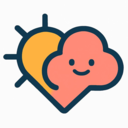
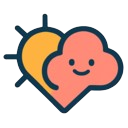
FIX - icono principal

diff --git a/popup.html b/popup.html
@@ -12,7 +12,7 @@
 <div class="container">
     <header class="header">
         <div class="logo">
-            <span class="logo-icon">🎭</span>
+            <img src="icons/icon128.png" alt="Logo MoodDrop" class="logo-icon-img" />
             <h1 class="title">MoodDrop</h1>
         </div>
         <p class="subtitle">¿Cómo te sentís ahora?</p>
@@ -79,9 +79,9 @@
                 <span class="emotion__emoji">🤒</span>
                 <span class="emotion__label">Enfermo</span>
             </button>
-            <button class="emotion emotion--physical" data-emotion="Descompuesto">
+            <button class="emotion emotion--physical" data-emotion="Resacozo">
                 <span class="emotion__emoji">🤢</span>
-                <span class="emotion__label">Descompuesto</span>
+                <span class="emotion__label">Resacozo</span>
             </button>
             <button class="emotion emotion--playful" data-emotion="Picaro">
                 <span class="emotion__emoji">😏</span>

diff --git a/dashboard.js b/dashboard.js
@@ -180,7 +180,7 @@ function emotionToEmoji(emotion) {
         "Feliz": "😄", "Tranquilo": "😊", "Enamorado": "😍", "Motivado": "😎",
         "Triste": "😞", "Enojado": "😠", "Ansioso": "😨", "Frustrado": "😩",
         "Indiferente": "😐", "Cansado": "😴", "Pensativo": "🤔", "Confundido": "😶",
-        "Enfermo": "🤒", "Descompuesto": "🤢", "Picaro": "😏", "Incómodo": "😬"
+        "Enfermo": "🤒", "Resacozo": "🤢", "Picaro": "😏", "Incómodo": "😬"
     };
     return map[emotion] || "❓";
 }

diff --git a/dashboard.html b/dashboard.html
@@ -13,7 +13,7 @@
 <div class="container container--dashboard">
     <header class="header">
         <div class="logo">
-            <span class="logo-icon">🎭</span>
+            <img src="icons/icon128.png" alt="Logo MoodDrop" class="logo-icon-img" />
             <h1 class="title">MoodDrop</h1>
         </div>
         <p class="subtitle">Tu registro emocional</p>

diff --git a/styles.css b/styles.css
@@ -518,3 +518,9 @@ body {
     opacity: 1;
     transition: opacity 0.3s ease;
 }
+
+.logo-icon-img {
+    width: 24px;
+    height: 24px;
+    filter: drop-shadow(0 2px 4px rgba(0, 0, 0, 0.1));
+}
